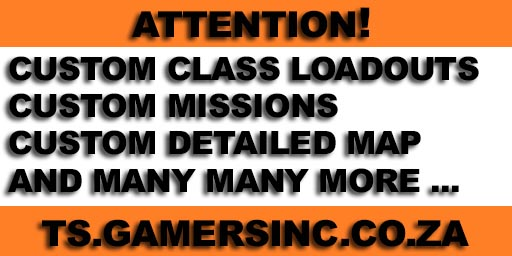
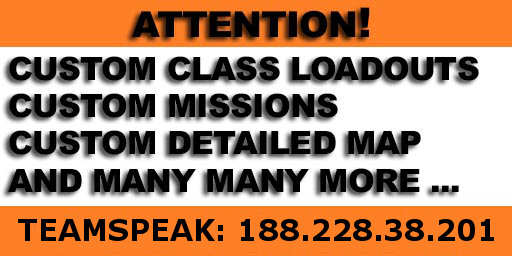
Update 1
Client_announceMessages
Classes gear
TakeDown_slit_throat
Disclaimer_Rules
Misc Zombro name + TS
Skilte TS + loading img
Store prices

Changed region(s): [[0.0312, 0.8438, 0.9688, 1.0]]

diff --git a/client/systems/scoreboard/score_gui.hpp b/client/systems/scoreboard/score_gui.hpp
@@ -62,7 +62,7 @@ class ScoreGUI : IGUIBack
 		class PListTopText : w_RscTextCenter
 		{
 			idc = -1;
-			text = "GamersInc. Gaming Community";
+			text = "Zombro Gaming Community";
 			sizeEx = 0.06 * TEXT_SCALE;
 
 			#define PListTopText_Y (PListBG_Y + CENTER(PListTopBG_H, PListTopBG_H))
